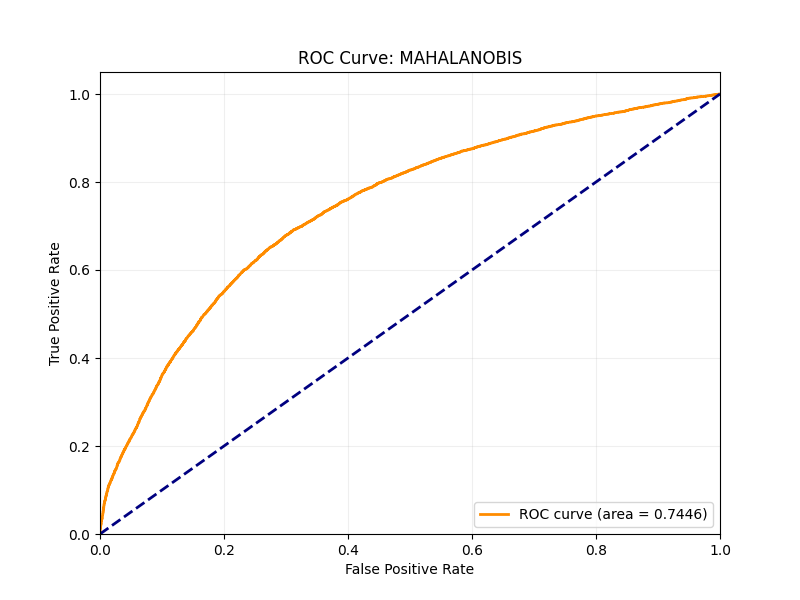
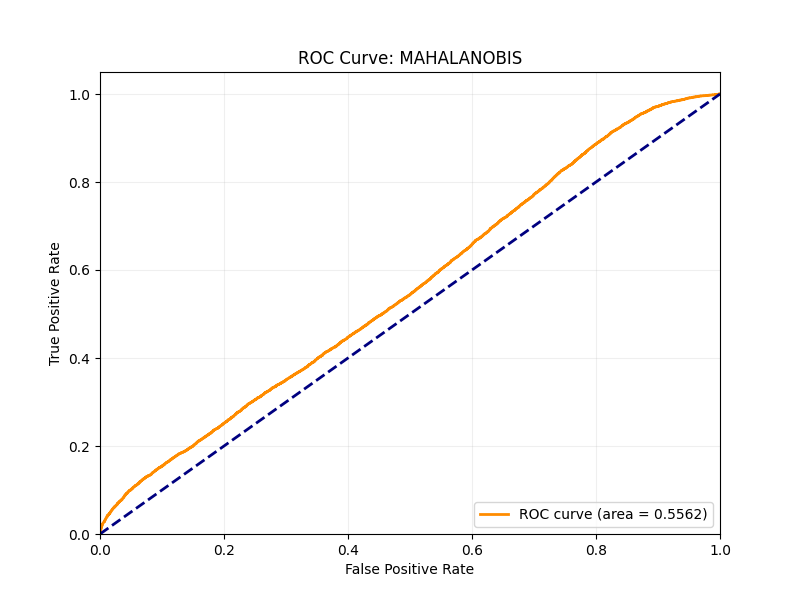
Update with functionning neural collapse

diff --git a/TrainResnet.py b/TrainResnet.py
@@ -1,3 +1,4 @@
+import os
 import torch
 import torchvision
 import torchvision.transforms as transforms
@@ -77,9 +78,13 @@ train_loader = torch.utils.data.DataLoader(train_set, batch_size=batch_size, shu
 test_loader = torch.utils.data.DataLoader(test_set, batch_size=batch_size, shuffle=False)
 ood_set = torchvision.datasets.SVHN(root='./data', split='test', download=True, transform=transform_test)
 ood_loader = torch.utils.data.DataLoader(ood_set, batch_size=batch_size, shuffle=True)
+
 model = ResNet18(num_classes=100).to(device)
 criterion = torch.nn.CrossEntropyLoss()
-optimizer = torch.optim.Adam(model.parameters(), lr=learning_rate)
+
+
+optimizer = torch.optim.Adam(model.parameters(), lr=learning_rate, weight_decay=5e-4)
+scheduler = torch.optim.lr_scheduler.CosineAnnealingLR(optimizer, T_max=epochs)
 
 def train():
     losses = []
@@ -88,16 +93,19 @@ def train():
     variances = []
     cos_similarities = []
     ortho_dev_scores = []
+    
+
+    os.makedirs('Results', exist_ok=True)
+    
+    print(f"Lancement de l'entraînement pour {epochs} époques...", flush=True)
     for epoch in range(epochs):
+        
+
         model.train()
         running_loss = 0.0
-        features = []
-        labels = []
         for i, (images, lbls) in enumerate(train_loader):
-            labels.append(lbls.numpy())
             images, lbls = images.to(device), lbls.to(device)
-            feat , outputs = model(images, return_features=True)
-            features.append(feat.detach().cpu().numpy())
+            outputs = model(images)
             loss = criterion(outputs, lbls)
             
             optimizer.zero_grad()
@@ -105,15 +113,30 @@ def train():
             optimizer.step()
             
             running_loss += loss.item()
+            
+        scheduler.step() 
         losses.append(running_loss / len(train_loader))
-        print(f"Epoch [{epoch+1}/{epochs}], Loss: {running_loss/len(train_loader):.4f}")
+        print(f"Epoch [{epoch+1}/{epochs}], Loss: {losses[-1]:.4f}", flush=True)
+
         model.eval()
+        features = []
+        labels = []
         with torch.no_grad():
-            var , dist, sim = NC_values(model, features, labels, num_classes=100)
+
+            for images, lbls in train_loader:
+                labels.append(lbls.numpy())
+                images = images.to(device)
+                feat, _ = model(images, return_features=True)
+                features.append(feat.cpu().numpy())
+                
+
+            var, dist, sim = NC_values(model, features, labels, num_classes=100)
             variances.append(var)
             distances.append(dist)
             cos_similarities.append(sim)
             ortho_dev_scores.append(compute_ortho_dev_ood(model, features, labels, ood_features_batch))
+            
+
             correct = 0
             total = 0
             for images, lbls in test_loader:
@@ -122,6 +145,7 @@ def train():
                 _, predicted = torch.max(outputs.data, 1)
                 total += lbls.size(0)
                 correct += (predicted == lbls).sum().item()
+                
         tests.append(correct / total)
         print(f"Test Accuracy: {tests[-1]*100:.2f}%")
 
@@ -130,52 +154,52 @@ def train():
     plt.xlabel('Epoch')
     plt.ylabel('Loss')
     plt.title('Training Loss over Epochs')
-
-    plt.legend()
     plt.grid(True, linestyle='--', alpha=0.7)
     plt.savefig(f'Results/loss_curve_{epochs}epochs.png')
     plt.close()
+    
     plt.figure(figsize=(10, 5))
     plt.plot(range(1, epochs + 1), tests, 's-', color='orange', markersize=6)
     plt.xlabel('Epoch')
     plt.ylabel('Accuracy')
     plt.title('Test Accuracy over Epochs')
-    plt.legend()
     plt.grid(True, linestyle='--', alpha=0.7)
     plt.savefig(f'Results/accuracy_curve_{epochs}epochs.png')
+    plt.close()
 
     plt.figure(figsize=(10, 5))
     plt.plot(range(1, epochs + 1), distances, 'o-', markersize=6)
     plt.xlabel('Epochs')
     plt.ylabel('Variance of Class Mean Distances')
     plt.title('STD of Class Mean Distances over Epochs')
-
-    plt.legend()
     plt.grid(True, linestyle='--', alpha=0.7)
     plt.savefig(f'Results/distance_curve_{epochs}epochs.png')
     plt.close()
+    
     plt.figure(figsize=(10, 5))
     plt.plot(range(1, epochs + 1), variances, 's-', color='orange', markersize=6)
     plt.xlabel('Epochs')
     plt.ylabel('Mean of Within-Class Variances')
     plt.title('Variance of Within-Class Variances over Epochs')
-    plt.legend()
     plt.grid(True, linestyle='--', alpha=0.7)
     plt.savefig(f'Results/variance_curve_{epochs}epochs.png')
+    plt.close()
+    
     plt.figure(figsize=(10, 5))
     plt.plot(range(1, epochs + 1), cos_similarities, 's-', color='blue', markersize=6)
     plt.xlabel('Epochs')
     plt.ylabel('Cosine similarity')
     plt.title('Cosine similarity of classifier weights vs means')
-    plt.legend()
     plt.grid(True, linestyle='--', alpha=0.7)
-    plt.savefig(f'Results/Cosine similarity_{epochs}epochs.png')
+    plt.savefig(f'Results/Cosine_similarity_{epochs}epochs.png')
+    plt.close()
+    
     plt.figure(figsize=(10, 5))
     plt.plot(range(1, epochs + 1), ortho_dev_scores, 'D-', color='purple', markersize=6,)
     plt.xlabel('Epochs')
     plt.ylabel('Mean Cosine Similarity (mu_c vs mu_OOD_G)')
     plt.title('Orthogonality Deviation: ID Classes centers vs OOD Global Center')
-    plt.legend()
+    plt.grid(True, linestyle='--', alpha=0.7)
     plt.savefig(f'Results/OrthoDev_OOD_curve_{epochs}epochs.png')
     plt.close()
         
@@ -186,7 +210,8 @@ if __name__ == "__main__":
         for i, (images, _) in enumerate(ood_loader):
             feat, _ = model(images.to(device), return_features=True)
             ood_features_batch.append(feat.cpu().numpy())
-            if i > 10: break # On prend juste un échantillon pour aller vite
+            if i > 10: break 
+            
     train()
 
-torch.save(model.state_dict(), f'resnet18_cifar100_{epochs}epochs.pth')
+    torch.save(model.state_dict(), f'Results/resnet18_cifar100_{epochs}epochs.pth')

diff --git a/Neural_Collapse.py b/Neural_Collapse.py
@@ -34,5 +34,8 @@ def compute_ortho_dev_ood(model, id_features, id_labels, ood_features, num_class
     ood_features = torch.from_numpy(np.concatenate(ood_features))
     mu_c = torch.stack([id_features[id_labels == i].mean(0) for i in range(num_classes)])
     mu_ood_g = ood_features.mean(0).unsqueeze(0)
-    cos_sims = np.abs(torch.nn.functional.cosine_similarity(mu_c, mu_ood_g))
+    mu_g_id = id_features.mean(0)
+    mu_c_centered = mu_c - mu_g_id
+    mu_ood_g_centered = mu_ood_g - mu_g_id
+    cos_sims = torch.abs(torch.nn.functional.cosine_similarity(mu_c_centered, mu_ood_g_centered))
     return cos_sims.mean().item()

diff --git a/OOD.py b/OOD.py
@@ -173,7 +173,7 @@ transform_train = transforms.Compose([
 
 batch_size = 256
 
-model_path = os.path.join(os.path.dirname(__file__), 'resnet18_cifar100_100epochs.pth')
+model_path = os.path.join(os.path.dirname(__file__), 'resnet18_cifar100_200epochs.pth')
 model = ResNet18(num_classes=100).to(device)
 state_dict = torch.load(model_path, map_location=device)
 model.load_state_dict(state_dict)
